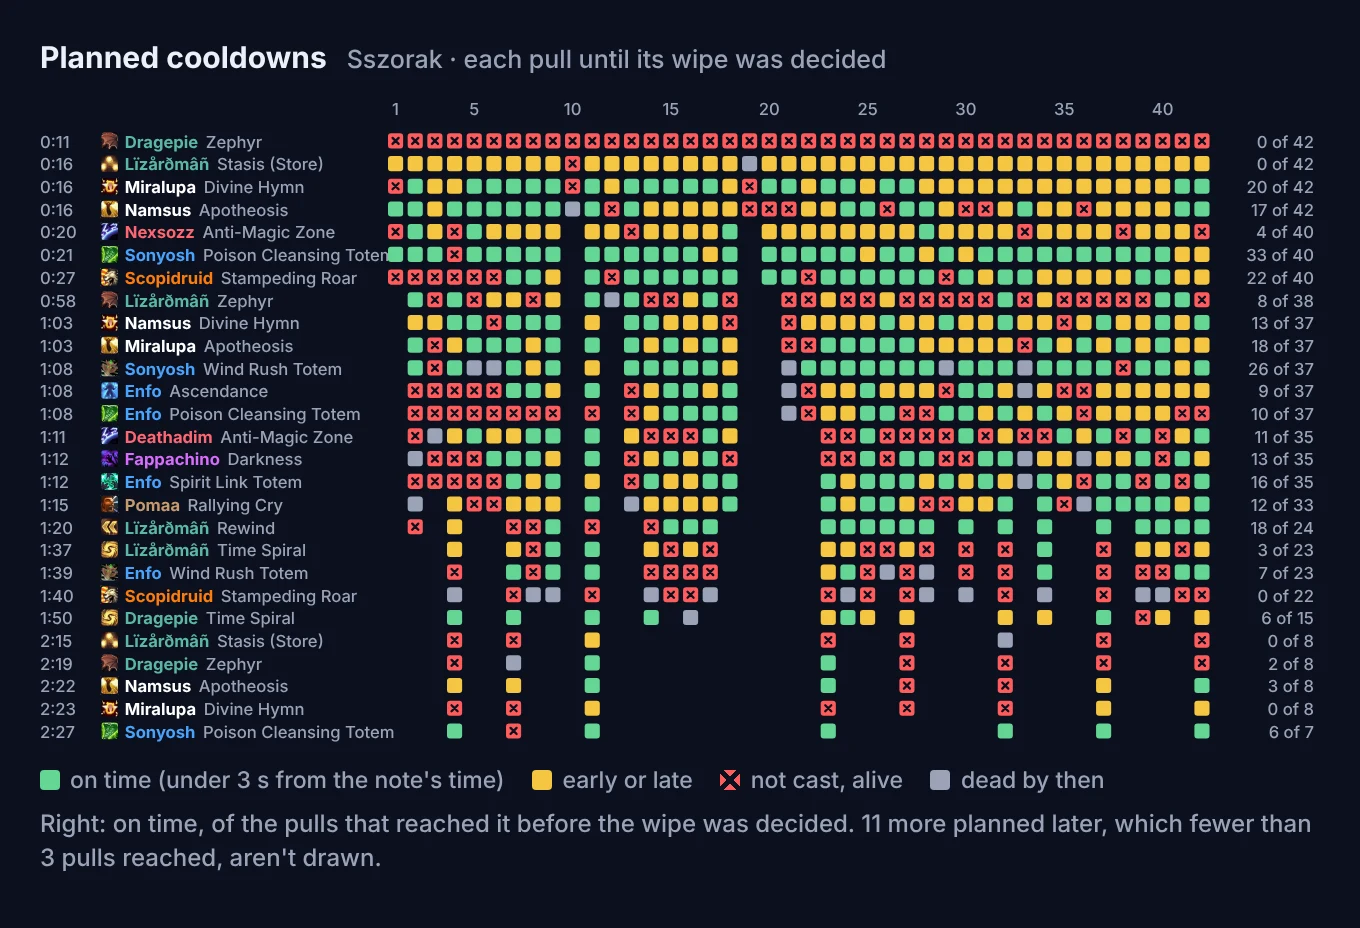
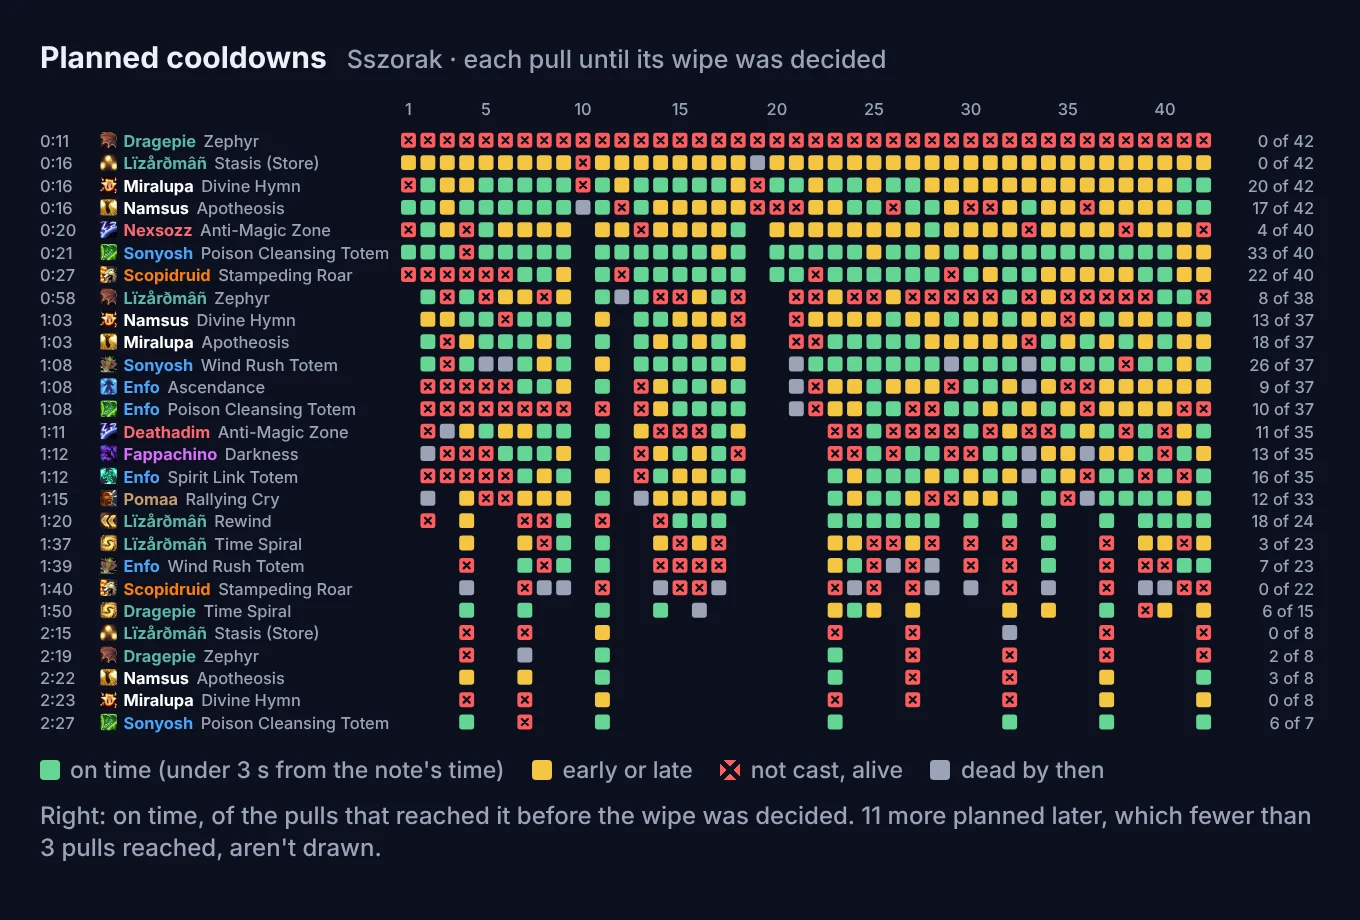
fix(agent): a long spell name no longer runs into the squares of the planned cooldowns
The label column was 230 px whatever its rows held, and "Sonyosh Poison Cleansing Totem" reached the first
pull's square. It now takes its longest row, up to 300 px, past which a spell's name is cut. The picture
under the raid notes' line is shot again.

diff --git a/src/wipebot/core/app/note.js b/src/wipebot/core/app/note.js
@@ -103,7 +103,12 @@ views.note = (() => {
     const rows = C0.uses.map((u, r) => r).filter((r) => reached(r) >= D.few);
     const C = { uses: rows.map((r) => C0.uses[r]), pulls: C0.pulls.map((p) => ({ pull: p.pull, cells: rows.map((r) => p.cells[r]) })) };
     const fewer = C0.uses.length - rows.length;
-    const labelW = 230, top = 26, colW = Math.max(SQ + 3, Math.min(16, 540 / C.pulls.length)), right = 70;
+    // the label column is as wide as its longest row (the time, the icon, the name, the spell), so no name runs into
+    // the squares; past LABEL_MOST a spell's name is cut
+    const LABEL_MOST = 300, nameX = (u) => (D.img_base && u.icon ? 56 : 40);
+    const spellX = (u) => nameX(u) + kit.width(u.player, kit.SIZE.label, 600) + 5;
+    const labelW = Math.min(LABEL_MOST, Math.max(230, Math.ceil(Math.max(...C.uses.map((u) => spellX(u) + kit.width(u.spell)))) + 8));
+    const top = 26, colW = Math.max(SQ + 3, Math.min(16, 540 / C.pulls.length)), right = 70;
     const w = labelW + C.pulls.length * colW + right, h = top + C.uses.length * ROW + 4;
     let body = "";
     C.pulls.forEach((p, i) => { if (p.pull === 1 || p.pull % 5 === 0) body += kit.text(labelW + i * colW + SQ / 2, 14, String(p.pull), "tm", 'text-anchor="middle"'); });
@@ -111,8 +116,8 @@ views.note = (() => {
       const y = top + r * ROW, at = `${u.phase > 1 ? `P${u.phase} ` : ""}${kit.clock(u.at_s * 1000)}`;
       body += kit.text(0, y + SQ - 0.5, at);
       body += kit.icon(D.img_base, u.icon, 40, y - 1, 12, u.spell);
-      body += `<text x="${D.img_base && u.icon ? 56 : 40}" y="${y + SQ - 0.5}" font-size="${kit.SIZE.label}"><tspan font-weight="600" class="cls" style="--c:${kit.esc(u.color)}">${kit.esc(u.player)}</tspan>`
-        + `<tspan class="tm" dx="5">${kit.esc(u.spell)}</tspan></text>`;
+      body += `<text x="${nameX(u)}" y="${y + SQ - 0.5}" font-size="${kit.SIZE.label}"><tspan font-weight="600" class="cls" style="--c:${kit.esc(u.color)}">${kit.esc(u.player)}</tspan>`
+        + `<tspan class="tm" dx="5">${kit.esc(kit.fit(u.spell, labelW - 8 - spellX(u)))}</tspan></text>`;
       let on = 0, seen = 0;
       C.pulls.forEach((p, i) => {
         const c = p.cells[r];
